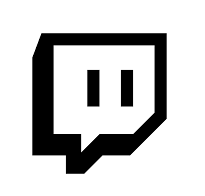
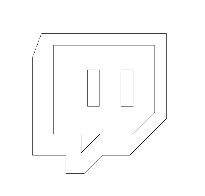
transparent png (#321)
* transparent png

* Fix for #189

Changed region(s): [[0.1463, 0.1531, 0.8195, 0.8878], [0.4098, 0.3367, 0.4976, 0.551], [0.5854, 0.3367, 0.6732, 0.551]]

diff --git a/src/scss/styles-1-large-main.scss b/src/scss/styles-1-large-main.scss
@@ -469,7 +469,7 @@ select#variant-selector, select#platform-selector {
   -webkit-appearance: none;
   -moz-appearance: none;
   appearance: none;
-  background: url(../assets/arrow-down.png) 90%/10% no-repeat white;
+  background: url(../assets/arrow-down.png) 90%/1rem no-repeat #fff;
   border: 1px solid $accentgrey;
   padding: 0.5rem 1.5rem;
   padding-right: 4rem;

diff --git a/gulpfile.js b/gulpfile.js
@@ -141,7 +141,7 @@ gulp.task('inject', function() {
 // images task
 gulp.task('images', function() {
   return gulp.src(['./src/assets/*.jp*', './src/assets/*.png',  './src/assets/*.svg', './src/assets/*.gif'])
-    .pipe(imagemin())
+    //.pipe(imagemin())
     .on('error', gutil.log)
     .pipe(gulp.dest('./dist/assets/'));
 });
